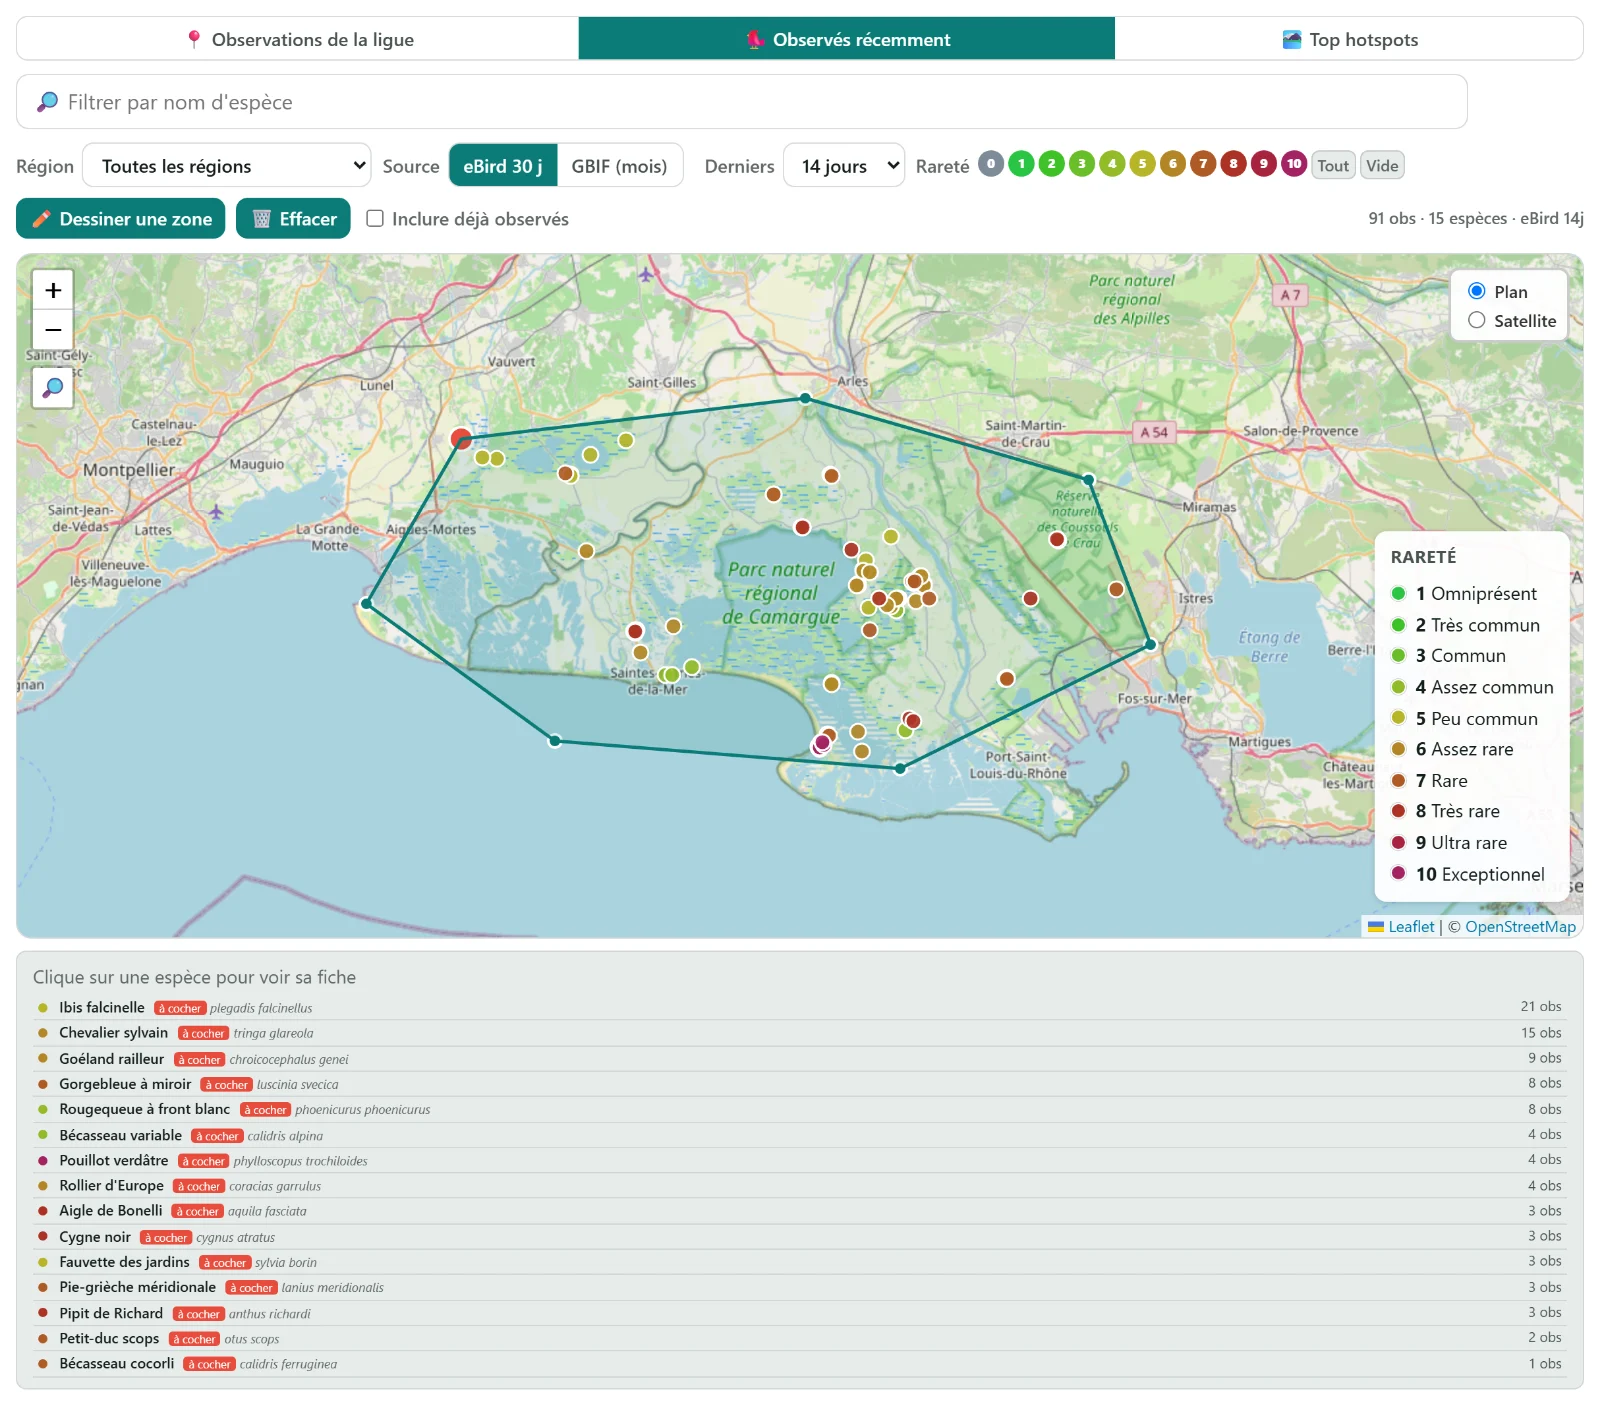
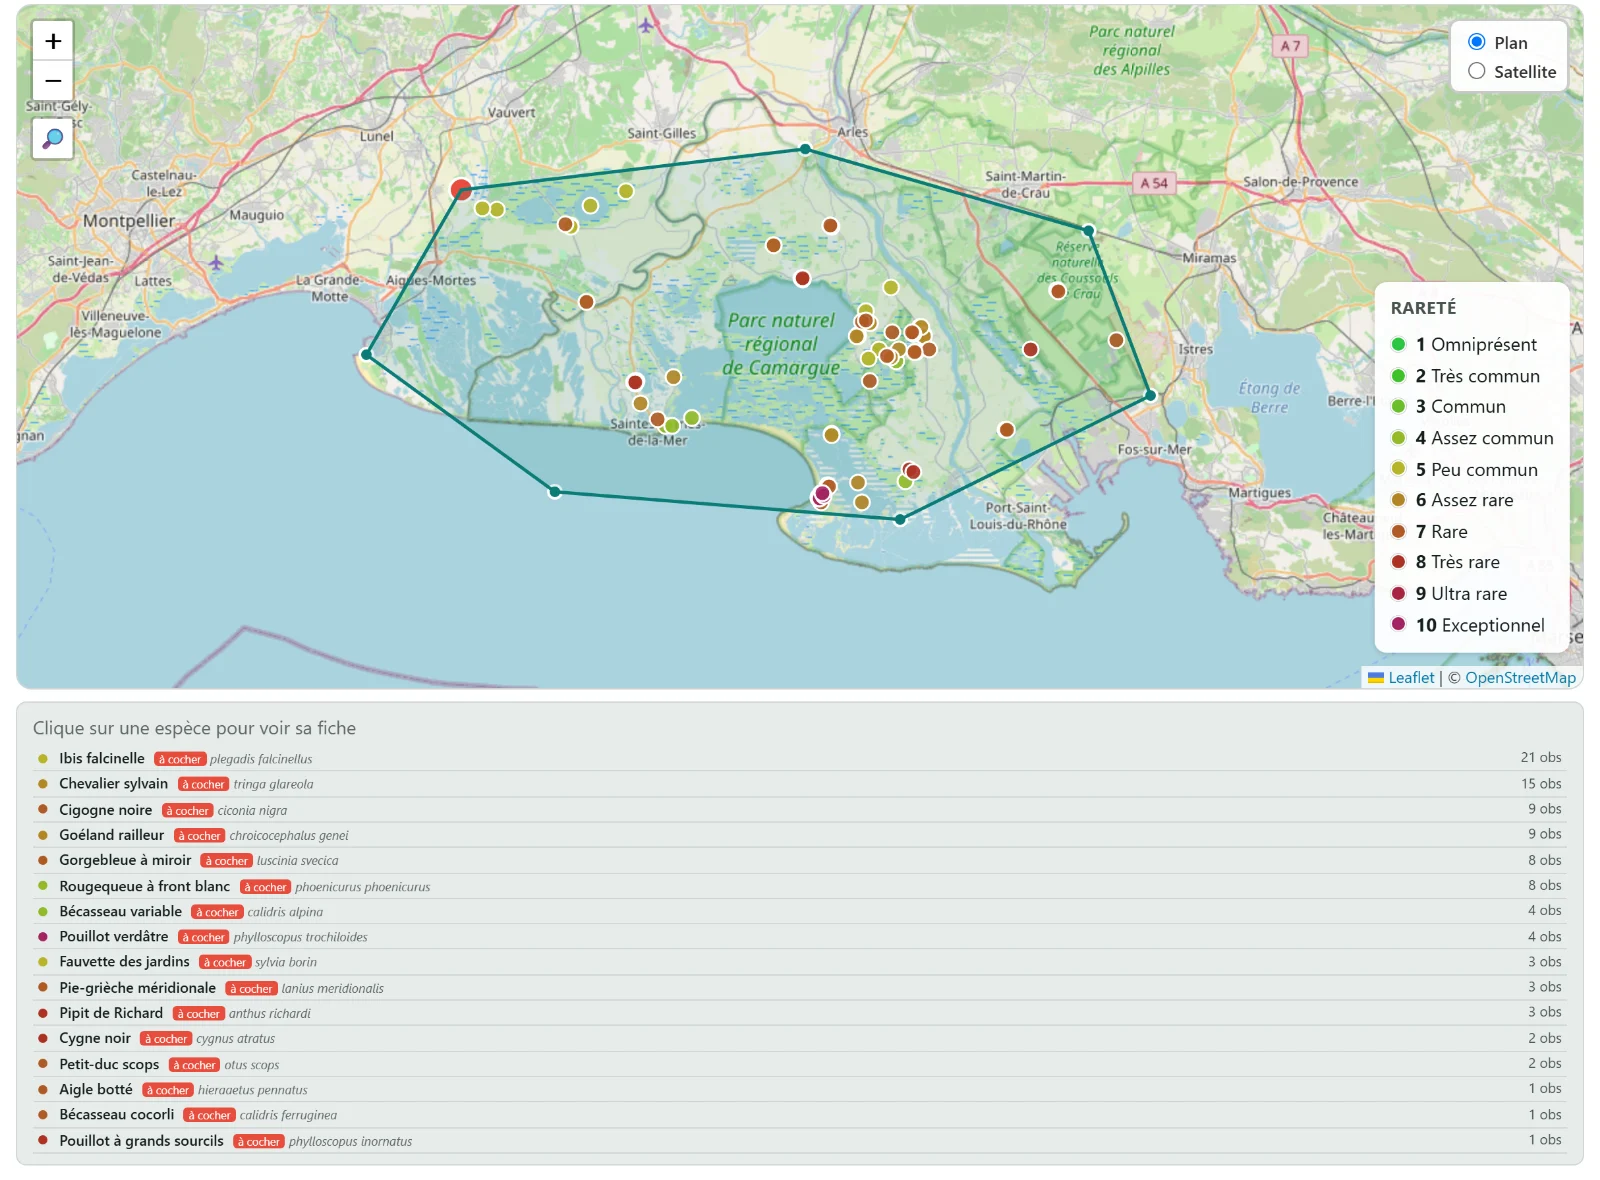
Page L'Ornithèque : zone tracée recapturée sans les onglets ni les filtres

diff --git a/ornitheque.html b/ornitheque.html
@@ -148,13 +148,13 @@
       </div>
     </div>
 
-    <div class="plates--pair plates--egal" style="--cols:193fr 114fr">
+    <div class="plates--pair plates--egal" style="--cols:193fr 136fr">
       <figure class="plate">
         <a href="projet-ornitheque-carte.webp" target="_blank" rel="noopener"><img width="1600" height="828" loading="lazy" src="projet-ornitheque-carte.webp" alt="Carte des observations du groupe en France"></a>
         <figcaption>La carte des observations du groupe, chaque point coloré selon la rareté de l’espèce. Points de la démonstration, inventés.<br><a class="zoom" href="projet-ornitheque-carte.webp" target="_blank" rel="noopener" aria-label="Pleine résolution, nouvel onglet : Carte des observations du groupe en France">Pleine résolution ↗</a></figcaption>
       </figure>
       <figure class="plate">
-        <a href="projet-ornitheque-zone.webp" target="_blank" rel="noopener"><img width="1600" height="1404" loading="lazy" src="projet-ornitheque-zone.webp" alt="Carte des observations récentes, une zone tracée sur la Camargue et la liste des espèces vues"></a>
+        <a href="projet-ornitheque-zone.webp" target="_blank" rel="noopener"><img width="1600" height="1180" loading="lazy" src="projet-ornitheque-zone.webp" alt="Carte des observations récentes, une zone tracée sur la Camargue et la liste des espèces vues"></a>
         <figcaption>Préparer une sortie&nbsp;: on trace une zone sur la carte, et le site liste ce qui y a été vu ces 14 derniers jours. Observations eBird réelles.<br><a class="zoom" href="projet-ornitheque-zone.webp" target="_blank" rel="noopener" aria-label="Pleine résolution, nouvel onglet : Carte des observations récentes, une zone tracée sur la Camargue et la liste des espèces vues">Pleine résolution ↗</a></figcaption>
       </figure>
     </div>
